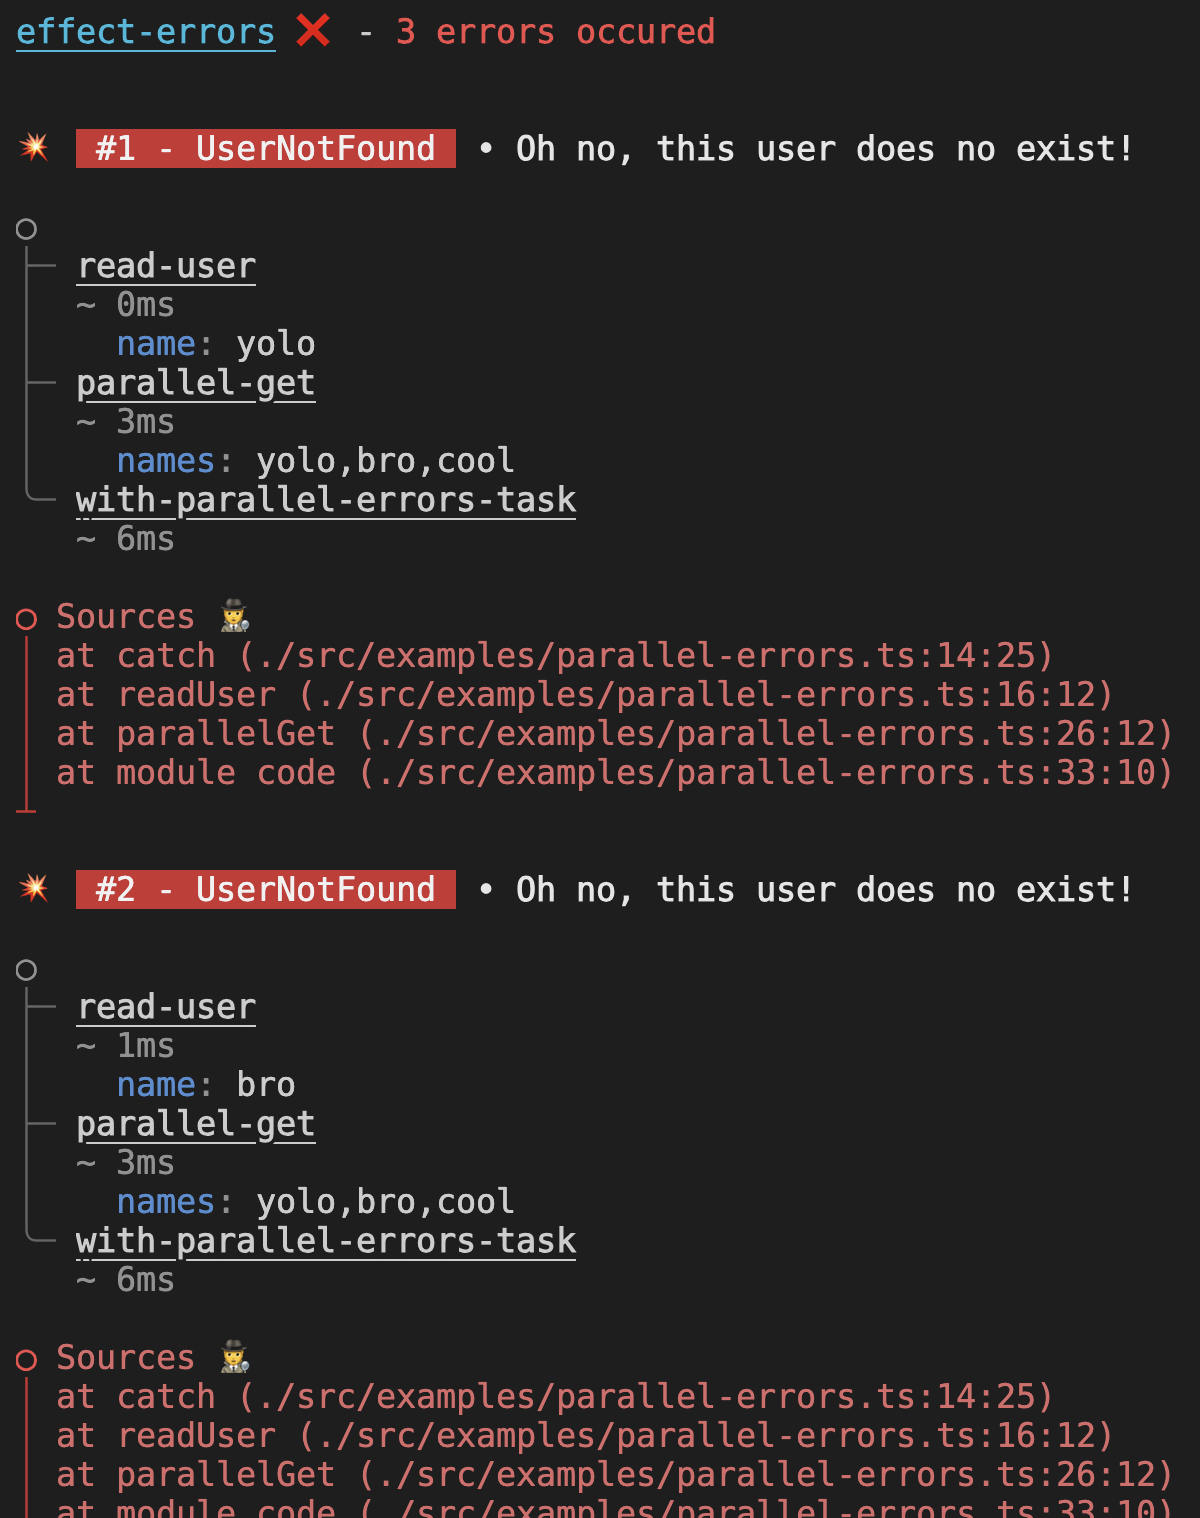
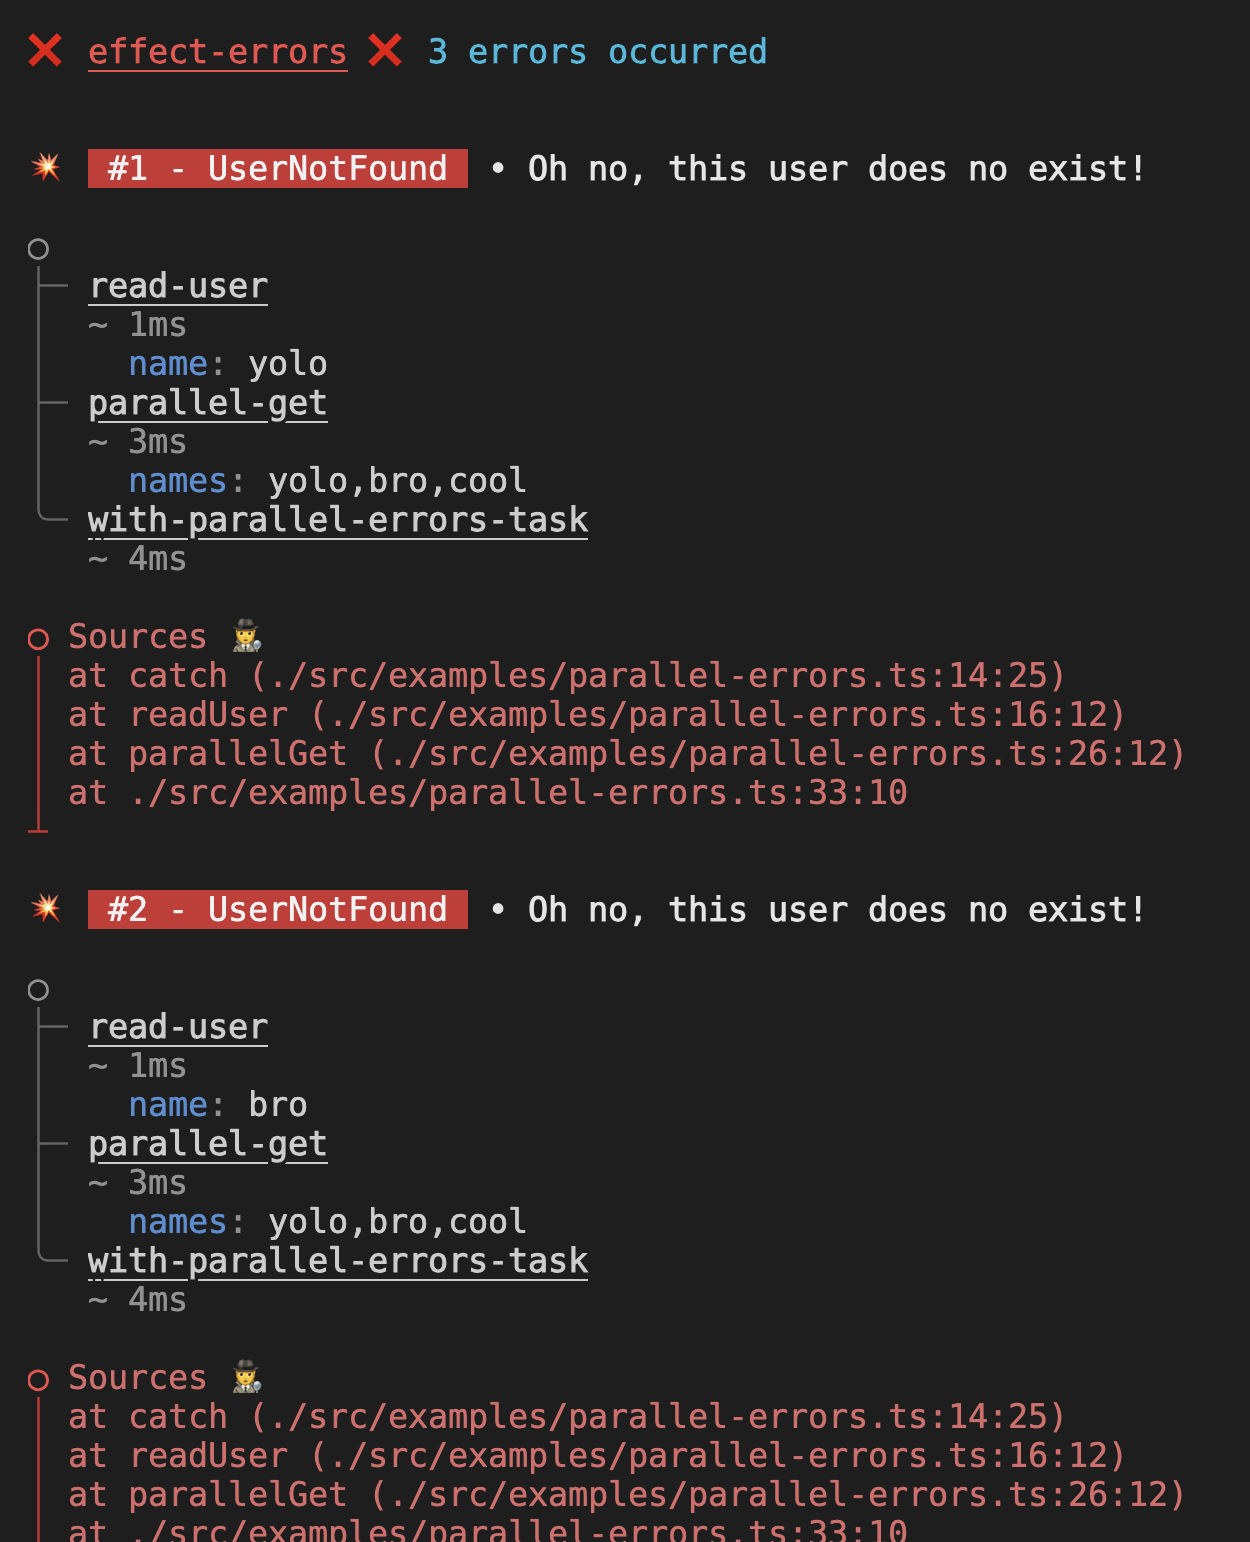
chore: changing multi errors lib name (#146)
* chore: changing multi errors lib name

* chore: amending readme

diff --git a/src/examples/parallel-errors.test.ts b/src/examples/parallel-errors.test.ts
@@ -24,7 +24,7 @@ describe('parallel-errors task', () => {
       const { prettyPrint } = await import('./../pretty-print.js');
       const result = prettyPrint(cause);
 
-      expect(result).toContain('3 errors occured');
+      expect(result).toContain('3 errors occurred');
     });
 
     it('should display the errors', async () => {
@@ -105,7 +105,7 @@ describe('parallel-errors task', () => {
       expect(errorMock).toHaveBeenCalledTimes(1);
       const message = errorMock.mock.calls[0][0];
 
-      expect(message).toContain('3 errors occured');
+      expect(message).toContain('3 errors occurred');
     });
 
     it('should display the errors', async () => {

diff --git a/src/logic/pretty-printing/common/format-title.ts b/src/logic/pretty-printing/common/format-title.ts
@@ -5,14 +5,14 @@ export const formatTitle = (errorsCount: number): string[] => {
     return [''];
   }
 
-  const libName = color.cyanBright(
-    `${color.underline(color.bold('effect-errors'))}`,
+  const libName = color.bold(
+    `${color.underline(color.redBright('effect-errors'))}`,
   );
   const title = color.bold(
-    color.redBright(
-      `${errorsCount} error${errorsCount > 1 ? 's' : ''} occured`,
+    color.cyanBright(
+      `${errorsCount} error${errorsCount > 1 ? 's' : ''} occurred`,
     ),
   );
 
-  return ['', `${libName} ❌ - ${title}`, '', ''];
+  return ['', `❌ ${libName} ❌ ${title}`, '', ''];
 };

diff --git a/src/examples/util/run.ts b/src/examples/util/run.ts
@@ -17,8 +17,11 @@ import { runPromise } from '../../runners/run-promise.js';
   const task: { default: Effect.Effect<unknown, unknown, Logger> } =
     await import(path.join('..', file));
 
-  await runPromise(pipe(task.default, Effect.provide(LoggerConsoleLive)), {
-    stripCwd,
-    hideStackTrace,
-  });
+  try {
+    await runPromise(pipe(task.default, Effect.provide(LoggerConsoleLive)), {
+      stripCwd,
+      hideStackTrace,
+    });
+    // biome-ignore lint/suspicious/noEmptyBlockStatements: /
+  } catch (_) {}
 })();
